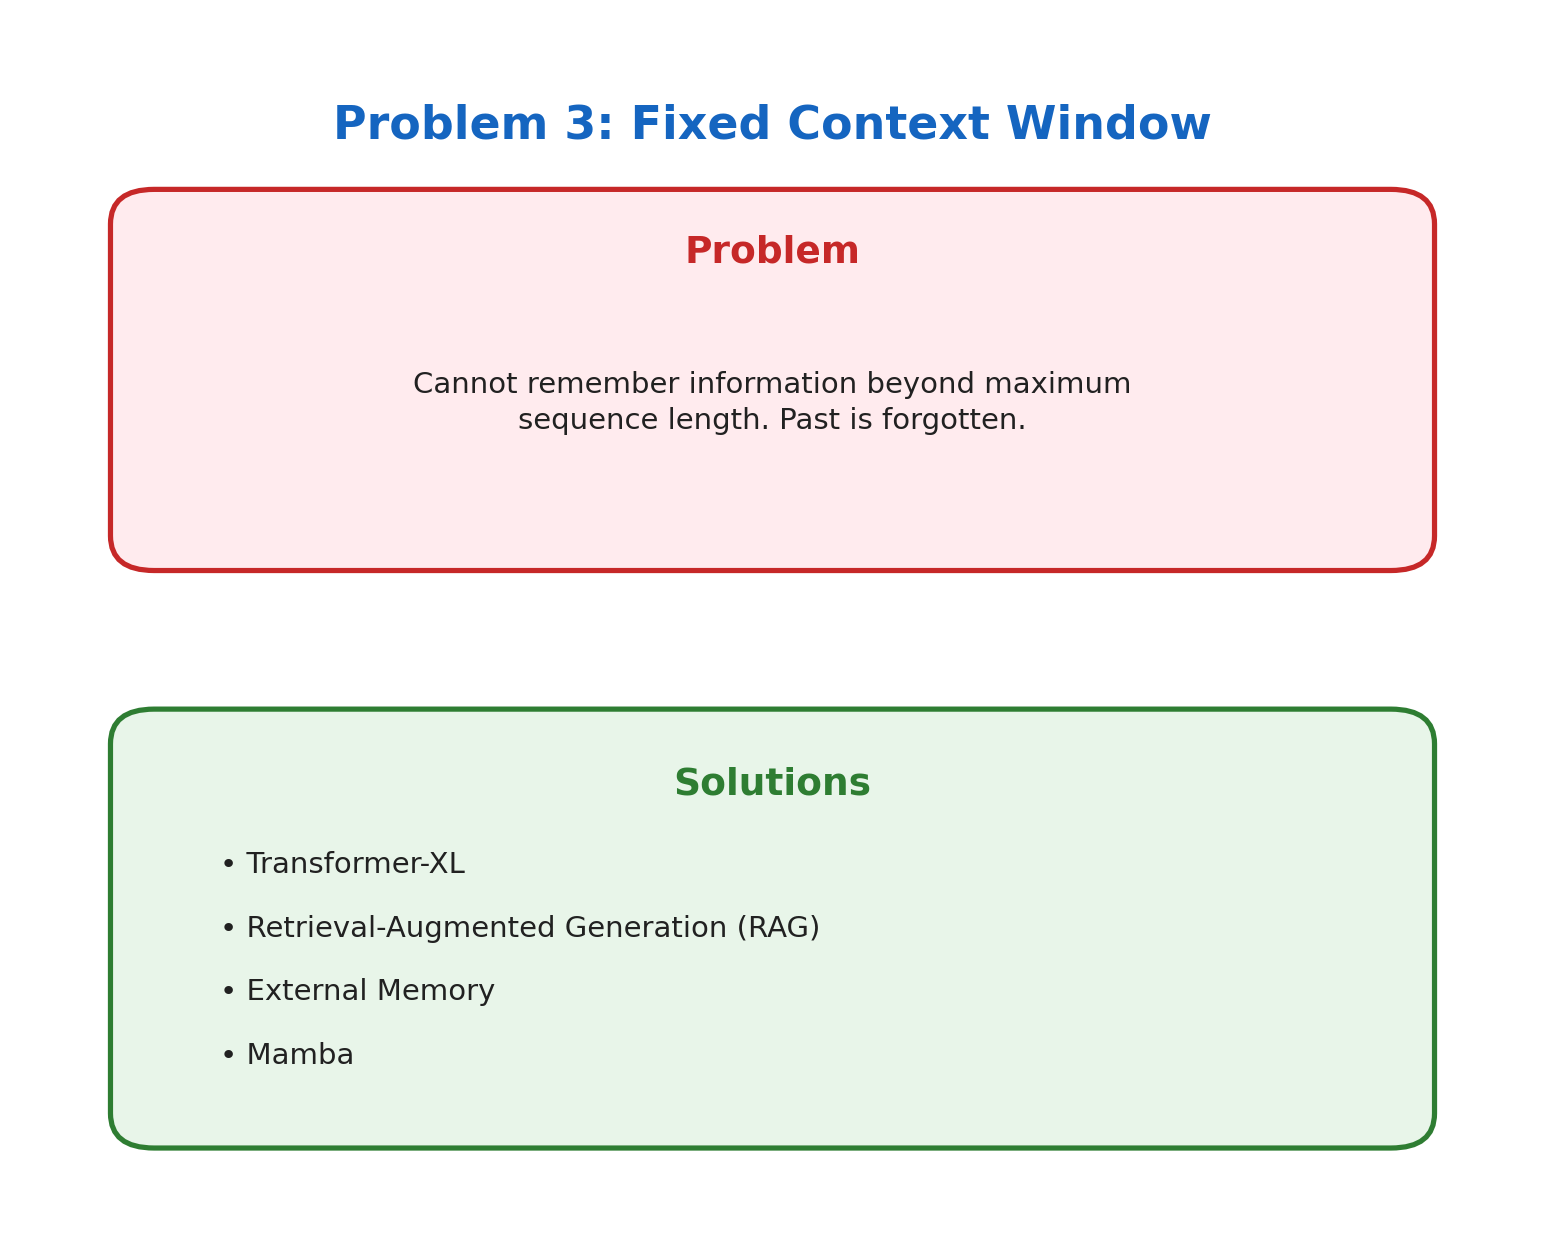
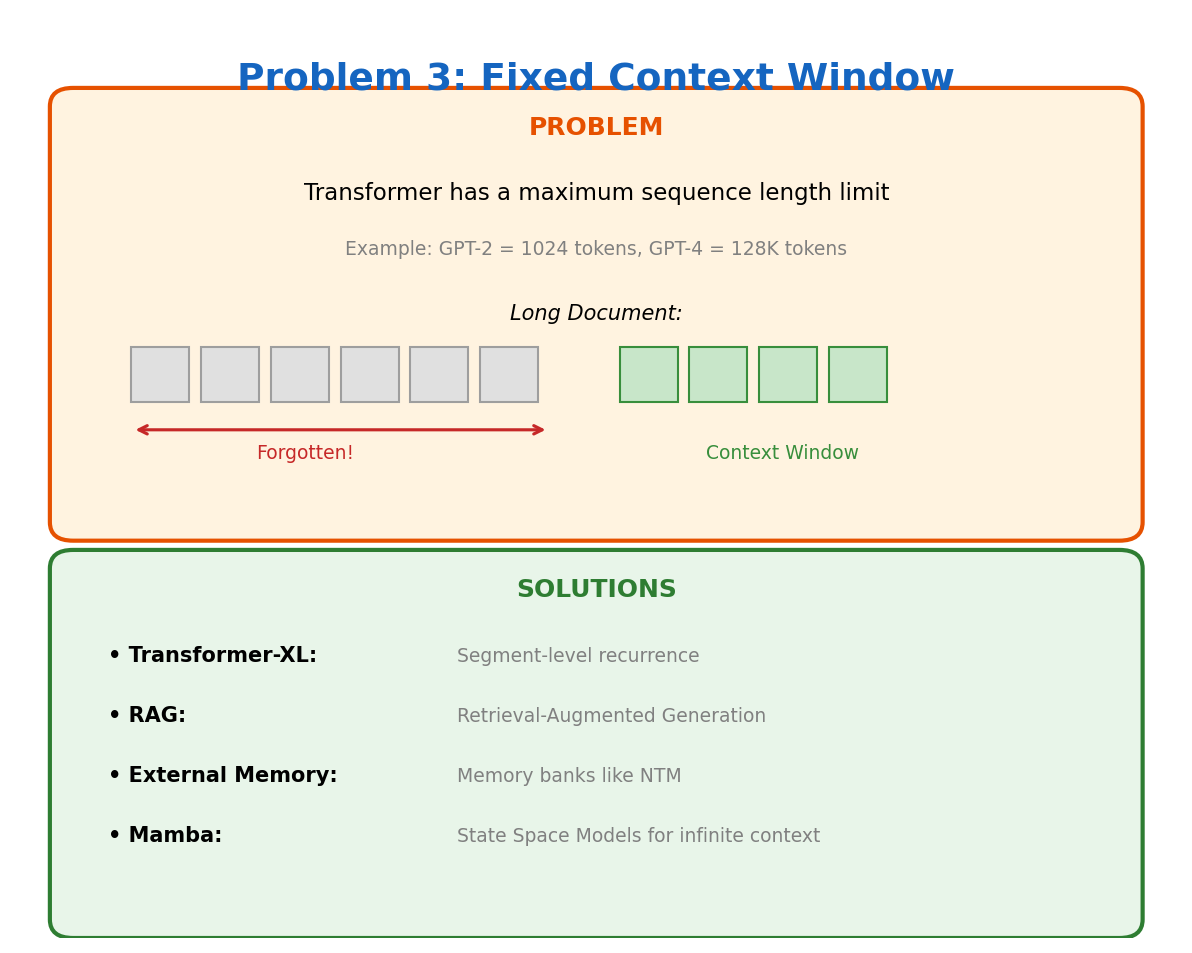
Update Problem 03: Fixed Context Window - human-readable README

diff --git a/03_fixed_context/README.md b/03_fixed_context/README.md
@@ -1,23 +1,53 @@
 # Problem 3: Fixed Context Window
 
-## Problem
+[← Back to Main](../README.md) | [← Previous](../02_positional_awareness/README.md) | [Next →](../04_slow_decoding/README.md)
 
-Cannot remember information beyond maximum sequence length. Past is forgotten.
+---
 
-Transformers have a fixed context window (e.g., 2048, 4096 tokens). Any information beyond this window is completely inaccessible, leading to loss of important context in long documents or conversations.
+![Problem 3](./problem.png)
 
-## Solutions
+## What's the Problem?
 
-| Solution | Description |
-|----------|-------------|
-| **Transformer-XL** | Segment-level recurrence mechanism to extend context |
-| **Retrieval-Augmented Generation (RAG)** | Retrieve relevant documents from external knowledge base |
-| **External Memory** | Maintain external memory banks (like Neural Turing Machines) |
-| **Mamba** | State Space Models with selective state spaces for infinite context |
+Imagine reading a 500-page book, but you can only remember the last 10 pages at any time. That's basically what happens with transformers.
 
-## References
+GPT-2 could only "see" 1024 tokens. GPT-4 pushed this to 128K, but there's still a hard limit. If your conversation or document exceeds it? The beginning just... disappears.
 
-- [Transformer-XL](https://arxiv.org/abs/1901.02860) - Attentive Language Models Beyond a Fixed-Length Context
-- [RAG](https://arxiv.org/abs/2005.11401) - Retrieval-Augmented Generation
-- [Mamba](https://arxiv.org/abs/2312.00752) - Linear-Time Sequence Modeling with Selective State Spaces
+This is a real problem for:
+- Long documents and books
+- Extended conversations (chatbots forgetting earlier context)
+- Code repositories with thousands of files
 
+## Why Does This Happen?
+
+Two reasons:
+
+1. **Memory**: That N² attention matrix grows fast. 128K tokens means a 16 billion element attention matrix.
+
+2. **Position Encodings**: Most PE methods are trained for specific lengths. Ask the model about position 200,000 when it only learned up to 100,000? Good luck.
+
+## How Do We Fix It?
+
+| Approach | The Idea |
+|----------|----------|
+| **Transformer-XL** | Process in chunks, but pass hidden states between chunks (recurrence is back!) |
+| **RAG** | Don't remember everything — just retrieve relevant chunks when needed |
+| **External Memory** | Store important stuff in a separate memory bank, query it as needed |
+| **Mamba/SSMs** | Ditch attention entirely, use state space models with O(N) scaling |
+
+## The Real-World Situation
+
+Modern solutions often combine approaches:
+- Use RAG to fetch relevant context
+- Extend context windows with RoPE scaling
+- Compress old context into summaries
+
+No single solution is perfect yet. This is still an active research area.
+
+## Learn More
+
+- [Transformer-XL](https://arxiv.org/abs/1901.02860) — Segment-level recurrence
+- [Mamba](https://arxiv.org/abs/2312.00752) — The SSM alternative
+
+---
+
+[← Back to Main](../README.md) | [← Previous](../02_positional_awareness/README.md) | [Next →](../04_slow_decoding/README.md)
